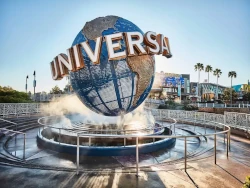
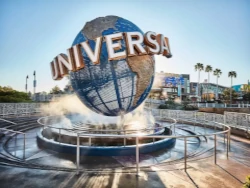
Correção da imagem Universal

diff --git a/Turismo.html b/Turismo.html
@@ -211,8 +211,8 @@
                 <div class="flip-container">    <!-- Card 7-->
                     <div class="front">
                         <picture>
-                            <source srcset="img/card-Universal-mobile.webp" media="(max-width: 600px)" alt="Parque Universal"/>
-                            <source srcset="img/card-Universal240.webp" media="(max-width: 1000px)" alt="Parque Universal"/>
+                            <source srcset="img/card-universal-mobile.webp" media="(max-width: 600px)" alt="Parque Universal"/>
+                            <source srcset="img/card-universal240.webp" media="(max-width: 1000px)" alt="Parque Universal"/>
                             <img class="cardflip" src="img/card-universal280.webp" alt="Parque Universal">
                         </picture>
                     </div>
